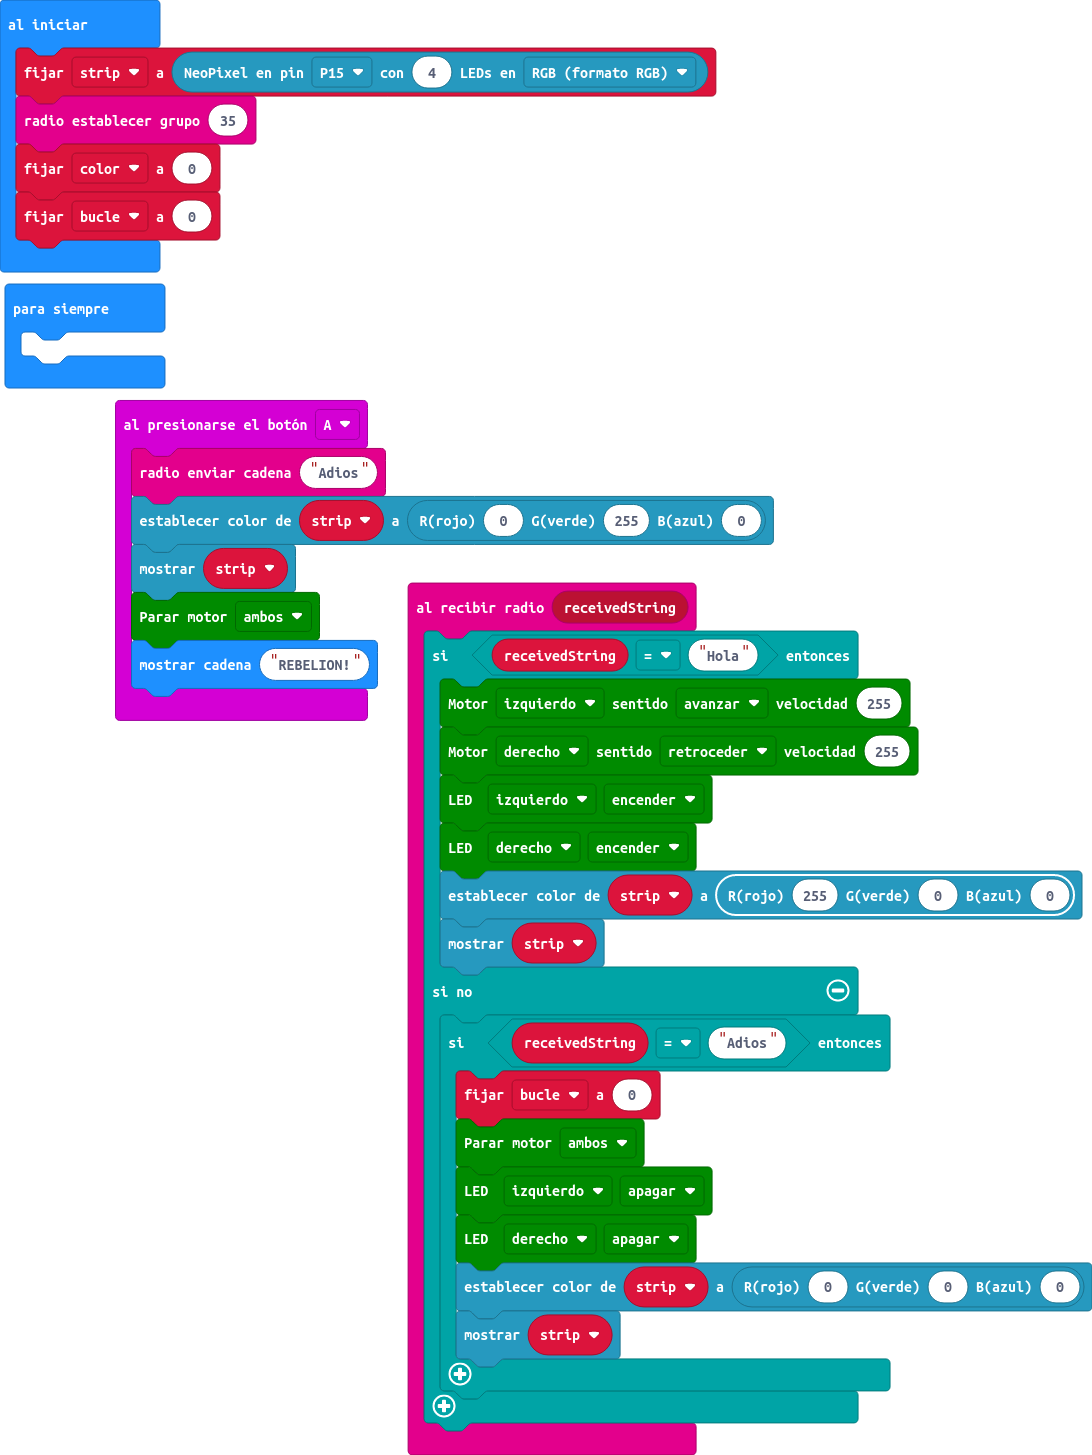
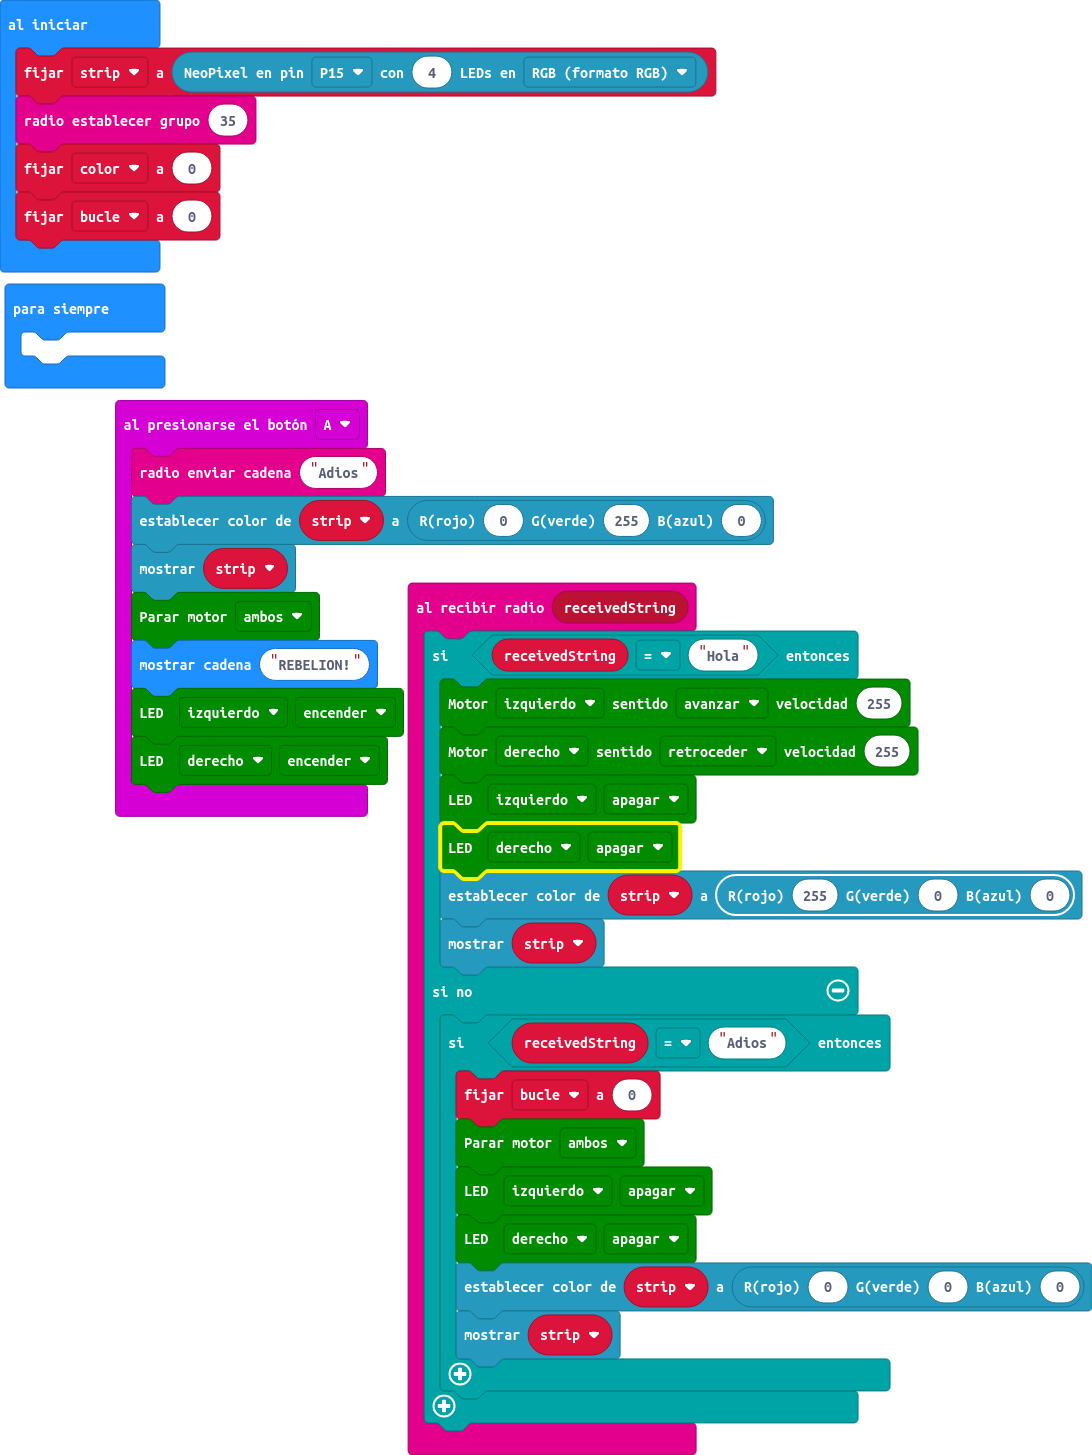
Actualizar main.blocks, main.ts

Changed region(s): [[0.0934, 0.4639, 0.3736, 0.5876], [0.5293, 0.5258, 0.6538, 0.6186], [0.4048, 0.5567, 0.4359, 0.6186]]

diff --git a/main.ts b/main.ts
@@ -4,13 +4,15 @@ input.onButtonPressed(Button.A, function () {
     strip.show()
     maqueen.motorStop(maqueen.Motors.All)
     basic.showString("REBELION!")
+    maqueen.writeLED(maqueen.LED.LEDLeft, maqueen.LEDswitch.turnOn)
+    maqueen.writeLED(maqueen.LED.LEDRight, maqueen.LEDswitch.turnOn)
 })
 radio.onReceivedString(function (receivedString) {
     if (receivedString == "Hola") {
         maqueen.motorRun(maqueen.Motors.M1, maqueen.Dir.CW, 255)
         maqueen.motorRun(maqueen.Motors.M2, maqueen.Dir.CCW, 255)
-        maqueen.writeLED(maqueen.LED.LEDLeft, maqueen.LEDswitch.turnOn)
-        maqueen.writeLED(maqueen.LED.LEDRight, maqueen.LEDswitch.turnOn)
+        maqueen.writeLED(maqueen.LED.LEDLeft, maqueen.LEDswitch.turnOff)
+        maqueen.writeLED(maqueen.LED.LEDRight, maqueen.LEDswitch.turnOff)
         strip.showColor(neopixel.rgb(255, 0, 0))
         strip.show()
     } else {
